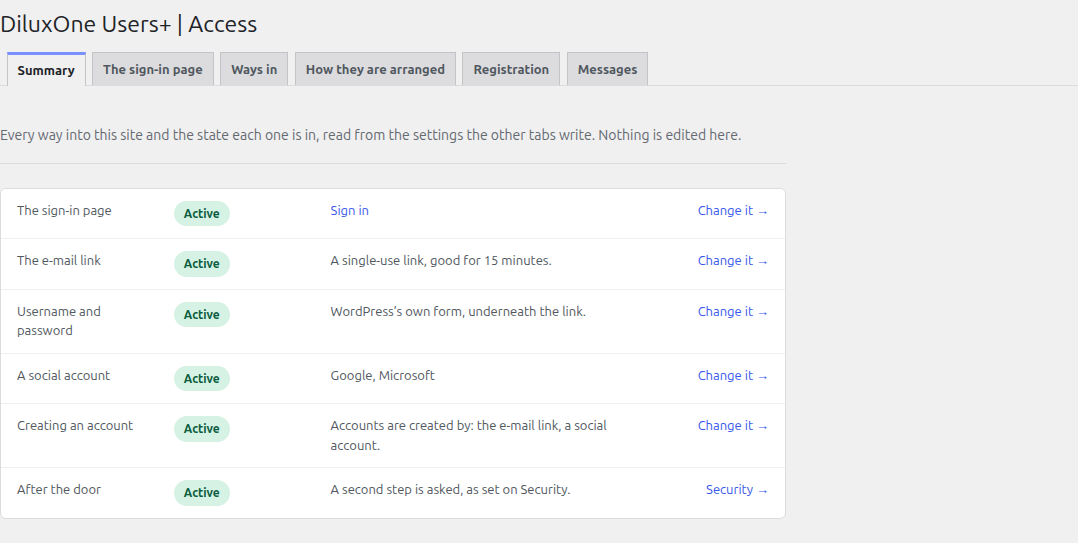
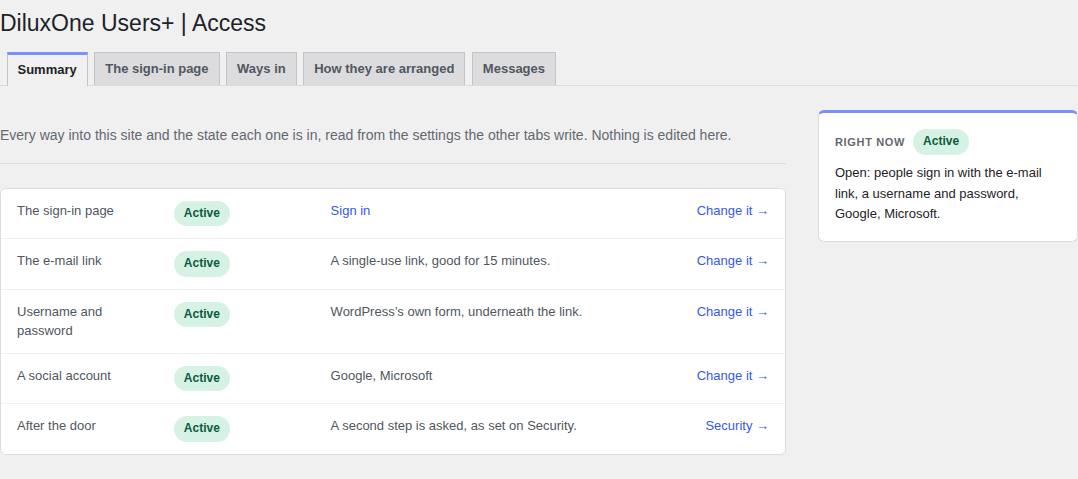
fix: the bug reproduced from #207 (#211)
## 📝 What changes

Access › Summary closes its rail with an empty callback
(`diluxone_users_screen_login_summary()` in `includes/admin-login.php`).
The Save box draws nothing on that tab, so the page has no
`.diluxone-users-studio__aside` at all. Registration › Summary, by
contrast, fills its rail with `diluxone_users_ui_aside_state()` from
`diluxone_users_register_state()`. The fix mirrors Registration:

1. Add `diluxone_users_login_state()` to `includes/admin-login.php`,
beside `diluxone_users_doors()`. Like `diluxone_users_register_state()`,
it returns one summary row through `diluxone_users_summary_row()`, keyed
on `diluxone_users_login_method` and `diluxone_users_sso_login`. It
reads the same helpers the table reads, so nothing is stored twice:
`diluxone_users_login_has_link()`, `diluxone_users_login_has_password()`
and `diluxone_users_sso_working_names()`.
- `detail` reads "Open: people sign in with %s.", listing the ways that
are open (the e-mail link, a username and password, and the names of
working social providers). The state is `active`.
- If social sign-in is on but no provider works, the state is `pending`
with that reason.
- If no way is open, the detail reads "Nobody can sign in here." and the
state is `off`.
- On a fresh install, where nobody has made a choice,
`diluxone_users_summary_row()` gives the Not configured state with a
line about what WordPress does meanwhile ("Everybody signs in on
[…]

diff --git a/tests/e2e/repro/issue-207.spec.ts b/tests/e2e/repro/issue-207.spec.ts
@@ -1,41 +1,26 @@
 import { test, expect } from '../support/fixtures';
-import { accessTab, control, notNow } from '../support/admin-access';
+import { accessTab, rail } from '../support/admin-access';
 import { ADMIN_STATE } from '../../../playwright.config';
 
 /**
- * Issue #207, item 7: on Access › The sign-in page, with the e-mail link as the
- * only way in and a page chosen, two sections say "Not in use now". The
- * lost-password one has its choices disabled (#192), but "What happens to
- * wp-login.php" leaves "Send everybody…" and "…only while the link…" enabled.
- * The reporter expects every section under "Not in use now" to have its
- * controls disabled.
+ * Issue #207, item 5: Access › Summary has an empty "Right now" rail since
+ * Registration moved out, while Registration's has its own. The reporter
+ * expects Access to keep a "Right now" of its own, with the state of signing
+ * in, on any site.
  */
 
 test.use({ storageState: ADMIN_STATE });
 
-test.describe('Issue 207: a section that does not apply now', () => {
-	test.beforeEach(async ({ options }) => {
-		await options.keep(['diluxone_users_login_method', 'diluxone_users_login_page', 'diluxone_users_lost_password', 'diluxone_users_wp_screens']);
-	});
+test.describe('Issue 207: the summary of Access', () => {
+	test('it has a "Right now" rail of its own that says something', async ({ page }) => {
+		await page.goto(accessTab('summary'));
 
-	test('the wp-login.php choices are disabled while the e-mail link is the only way in', async ({ page, pages, options }) => {
-		await options.set({
-			diluxone_users_login_method: 'link',
-			diluxone_users_login_page: pages.login.id,
-			diluxone_users_lost_password: 'site',
-		});
+		// The table of ways in is drawn, so this is the right screen.
+		await expect(page.locator('table.diluxone-users-summary')).toBeVisible();
 
-		await page.goto(accessTab('page'));
-
-		// Both sections say they do not apply.
-		await expect(notNow(page), 'the wp-login.php and lost-password sections both say so').toHaveCount(2);
-
-		// The lost-password section waits, as #192 asked.
-		await expect(control(page, 'diluxone_users_lost_password', 'site'), 'the lost-password choice waits').toBeDisabled();
-
-		// So does the wp-login.php one.
-		for (const value of ['mine', 'wp', 'auto']) {
-			await expect(control(page, 'diluxone_users_wp_screens', value), `the wp-login.php choice "${value}" waits`).toBeDisabled();
-		}
+		// The rail exists and is not empty.
+		await expect(rail(page), 'the summary has a rail').toHaveCount(1);
+		await expect(rail(page).locator('.du-state'), 'the rail says the state of signing in').toHaveCount(1);
+		await expect(rail(page).locator('.du-state__line'), 'and says it in words').not.toHaveText('');
 	});
 });

diff --git a/tests/e2e/specs/admin-access-summary.spec.ts b/tests/e2e/specs/admin-access-summary.spec.ts
@@ -98,7 +98,7 @@ test.describe('Access › Summary', () => {
 		});
 	}
 
-	test('is the first tab, saves nothing, and has no rail: the table is the whole of it', async ({ page }) => {
+	test('is the first tab, saves nothing, and its rail says only how signing in stands', async ({ page }) => {
 		await page.goto(adminUrl('diluxone-users-login'));
 
 		await expect(page.locator('.nav-tab-wrapper .nav-tab').first()).toHaveClass(/nav-tab-active/);
@@ -106,7 +106,9 @@ test.describe('Access › Summary', () => {
 		await expect(page.locator('table.diluxone-users-summary')).toBeVisible();
 		await expect(saveButton(page), 'a Save button on a tab that edits nothing').toHaveCount(0);
 		await expect(page.locator('.diluxone-users-studio form[method="post"]')).toHaveCount(0);
-		await expect(rail(page), 'the way back in when locked out is Maintenance’s tab').toHaveCount(0);
+		await expect(rail(page).locator('.du-state'), 'one state: whether anybody can sign in').toHaveCount(1);
+		await expect(rail(page).locator('.du-state__line')).not.toHaveText('');
+		await expect(rail(page)).not.toContainText('accounts are created');
 	});
 
 	test('with registration open by the e-mail link, it speaks only of signing in, and Registration’s summary only of registering', async ({ page, options }) => {

diff --git a/tests/Integration/AccessSummaryRailTest.php b/tests/Integration/AccessSummaryRailTest.php
@@ -1,0 +1,97 @@
+<?php
+/**
+ * Access › Summary's rail: whether anybody can sign in right now, and through
+ * which ways, read from the same settings the table reads.
+ *
+ * Nobody signing in at all ("Nobody can sign in here.") is not reachable from
+ * the settings today: the method always opens the link, the password or both.
+ * The cases below are the ones a site can be in.
+ */
+
+namespace Tests\Integration;
+
+use Tests\Integration\Support\CoverSettingsSupport;
+
+class AccessSummaryRailTest extends IntegrationTestCase {
+
+	use CoverSettingsSupport;
+
+	protected function tearDown(): void {
+		$this->cover_settings_reset();
+
+		parent::tearDown();
+	}
+
+	/** A provider set up and tested, so it works. */
+	private function a_working_provider(): void {
+		diluxone_users_update_option(
+			'diluxone_users_sso',
+			array(
+				'google' => array(
+					'active' => 1,
+					'id'     => 'client-id',
+					'secret' => 'client-secret',
+					'tested' => 1,
+				),
+			),
+			false
+		);
+	}
+
+	public function test_open_ways_are_listed_and_active(): void {
+		$this->a_working_provider();
+		diluxone_users_update_option( 'diluxone_users_login_method', 'both' );
+		diluxone_users_update_option( 'diluxone_users_sso_login', 1 );
+
+		$state = diluxone_users_login_state();
+		$names = implode( ', ', diluxone_users_sso_working_names() );
+
+		$this->assertSame( 'active', $state['state'] );
+		$this->assertSame( '', $state['why'] );
+		$this->assertSame( esc_html( 'Open: people sign in with the e-mail link, a username and password, ' . $names . '.' ), $state['detail'] );
+	}
+
+	public function test_the_link_alone_is_named_alone(): void {
+		diluxone_users_update_option( 'diluxone_users_login_method', 'link' );
+		diluxone_users_update_option( 'diluxone_users_sso_login', 0 );
+
+		$state = diluxone_users_login_state();
+
+		$this->assertSame( 'active', $state['state'] );
+		$this->assertSame( 'Open: people sign in with the e-mail link.', $state['detail'] );
+	}
+
+	public function test_social_on_with_no_provider_working_is_pending(): void {
+		diluxone_users_update_option( 'diluxone_users_sso', array(), false );
+		diluxone_users_update_option( 'diluxone_users_login_method', 'password' );
+		diluxone_users_update_option( 'diluxone_users_sso_login', 1 );
+
+		$state = diluxone_users_login_state();
+
+		$this->assertSame( 'pending', $state['state'] );
+		$this->assertSame( 'no provider is working yet', $state['why'] );
+		$this->assertSame( 'Open: people sign in with a username and password.', $state['detail'] );
+	}
+
+	public function test_nobody_decided_reads_not_configured_with_what_wordpress_does(): void {
+		diluxone_users_delete_option( 'diluxone_users_login_method' );
+		diluxone_users_delete_option( 'diluxone_users_sso_login' );
+
+		$state = diluxone_users_login_state();
+
+		$this->assertSame( 'unset', $state['state'] );
+		$this->assertSame( '', $state['why'] );
+		$this->assertSame( esc_html( 'Everybody signs in on wp-login.php with a username and password, as WordPress has it.' ), $state['detail'] );
+	}
+
+	public function test_the_tab_draws_the_rail_with_one_line(): void {
+		$this->the_admin();
+		diluxone_users_update_option( 'diluxone_users_login_method', 'link' );
+		diluxone_users_update_option( 'diluxone_users_sso_login', 0 );
+
+		$html = $this->draw( 'diluxone_users_screen_login_summary' );
+
+		$this->assertSame( 1, substr_count( $html, 'class="du-state"' ), 'one state in the rail' );
+		$this->assertStringContainsString( '<p class="du-state__line">Open: people sign in with the e-mail link.</p>', $html );
+	}
+}

diff --git a/includes/admin-login.php b/includes/admin-login.php
@@ -427,6 +427,54 @@ function diluxone_users_doors(): array {
 	return $rows;
 }
 
+/**
+ * Whether anybody can sign in right now, and through which ways.
+ *
+ * The rail of Access › Summary, in the shape of a summary row: the same
+ * reading the table does, folded into one sentence.
+ *
+ * @return array<string, string>
+ */
+function diluxone_users_login_state(): array {
+	$social = diluxone_users_sso_working_names();
+	$sso    = (bool) diluxone_users_option( 'diluxone_users_sso_login' );
+	$open   = array();
+
+	if ( diluxone_users_login_has_link() ) {
+		$open[] = __( 'the e-mail link', 'diluxone-users' );
+	}
+
+	if ( diluxone_users_login_has_password() ) {
+		$open[] = __( 'a username and password', 'diluxone-users' );
+	}
+
+	if ( $sso ) {
+		$open = array_merge( $open, $social );
+	}
+
+	$waiting = $sso && array() === $social;
+
+	return diluxone_users_summary_row(
+		array( 'diluxone_users_login_method', 'diluxone_users_sso_login' ),
+		array(
+			'label'  => __( 'Signing in', 'diluxone-users' ),
+			'state'  => $waiting ? 'pending' : ( array() !== $open ? 'active' : 'off' ),
+			'why'    => $waiting ? __( 'no provider is working yet', 'diluxone-users' ) : '',
+			'detail' => array() !== $open
+				? esc_html(
+					sprintf(
+						/* translators: %s: the ways people sign in, comma separated */
+						__( 'Open: people sign in with %s.', 'diluxone-users' ),
+						implode( ', ', $open )
+					)
+				)
+				: esc_html__( 'Nobody can sign in here.', 'diluxone-users' ),
+			'url'    => diluxone_users_admin_url( 'diluxone-users-login', array( 'tab' => 'ways' ) ),
+		),
+		esc_html__( 'Everybody signs in on wp-login.php with a username and password, as WordPress has it.', 'diluxone-users' )
+	);
+}
+
 /** The state of the whole door. Nothing is edited here. */
 function diluxone_users_screen_login_summary(): void {
 	diluxone_users_ui_aside_open();
@@ -435,11 +483,15 @@ function diluxone_users_screen_login_summary(): void {
 
 	diluxone_users_summary_table( diluxone_users_doors() );
 
-	/*
-	 * No rail: the table is the whole of what this tab says about the site,
-	 * and the way back in when locked out is the lockout tab of Maintenance.
-	 */
-	diluxone_users_ui_aside_close( static function (): void {} );
+	$now = diluxone_users_login_state();
+
+	// The rail says one thing: whether anybody can sign in right now, and
+	// through which ways. Registering is Registration's to report.
+	diluxone_users_ui_aside_close(
+		static function () use ( $now ): void {
+			diluxone_users_ui_aside_state( (string) $now['detail'], (string) $now['state'], (string) ( $now['why'] ?? '' ) );
+		}
+	);
 }
 
 /**

diff --git a/tests/e2e/COVERAGE.md b/tests/e2e/COVERAGE.md
@@ -270,12 +270,12 @@ everybody, with the code by e-mail, and skips it for nobody.
 | Overview: cards (accounts, sessions, fields, social), the 15-minute cache, card links | `admin-overview` › the cards |
 | Overview: first steps (button only on the first undone, gone when done) | `admin-overview` › first steps |
 | Overview: usage "N of M (x%)" and bar width; doors panel (method, mail failing, all doors, and registration as a row of its own linking to Registration); asked panel (active fields, none); rail links | `admin-overview` › what your people use; how your people get in (signing in and registration are two rows…); what is asked of them. Integration: `RegistrationScreenTest` |
-| Access › Summary: five rows by pill and link for three door shapes, none of them registration; no Save; emergency URL and WP-CLI line | `admin-access-summary` |
+| Access › Summary: five rows by pill and link for three door shapes, none of them registration; no Save; a “Right now” rail saying only whether anybody can sign in and through which ways; emergency URL and WP-CLI line | `admin-access-summary`, `repro/issue-207`. Integration: `AccessSummaryRailTest` |
 | Registration › Summary: with registration open by the e-mail link, one row per door and the role given, no row of signing in, a “Right now” rail saying only whether registration is open and through which doors; no Save | `admin-access-summary` › with registration open by the e-mail link…. Integration: `RegistrationScreenTest` |
 | Access › The sign-in page: page selector (and None), `auto`, hand-sent `wp` without a password stored as `auto`, lost password `wp`/`site`/`link` through the tab, not-now notes and the wp-login look note; with “A page of its own”, a page chosen showing its address as a link and no address field, "No page" showing the address field, the drop-down switching the two with no reload (another page not yet saved: "Once saved"), a refused address writing nothing; with “In the page” and “A centred card”, no address field and the save as before | `admin-access-page` › Access › The sign-in page, … with “A page of its own”, … with “In the page”, … with “A centred card” · `network/admin-access` › The hub’s Access › The sign-in page, with “A page of its own”. Integration: `CoverSettingsAccessTest` |
 | Access › The sign-in page with the e-mail link as the only way in and a page chosen: the three lost-password choices (`wp`, `site`, `link`) drawn disabled, waiting for a password | `repro/issue-165` |
 | A section of Access that does not apply now wears “Not in use now”, never “Pending”; Arrangement › “Which tab opens” drawn disabled while the ways in are stacked | `repro/issue-192` |
-| Access › The sign-in page with the e-mail link as the only way in and a page chosen: the three “What happens to wp-login.php” choices (`mine`, `wp`, `auto`) drawn disabled, waiting for a password, the answer in force still checked | `repro/issue-207`, `admin-access-page` › the notes beside the answers… |
+| Access › The sign-in page with the e-mail link as the only way in and a page chosen: the three “What happens to wp-login.php” choices (`mine`, `wp`, `auto`) drawn disabled, waiting for a password, the answer in force still checked | `admin-access-page` › the notes beside the answers… |
 | Create the page: the sign-in page; the account page's sections answer at once; an unknown page role is refused | `admin-access-page` › Create the page |
 | Access › Ways in: neither box refused (browser and server); throttle; public-name sign-in on/off; handles-off note; password off drops the second screen; a setting pinned from code; the Users+ Pro card after the real ways in (`login/ways/more`) | `admin-access-ways` |
 | Access › Arrangement: `tabs`, `auto` threshold, first tab (disabled while stacked, enabled live by “tabs”, kept by a save made stacked), junk posted by hand, real drag saves on drop, live preview | `admin-access-arrangement` |

diff --git a/changelog.d/210.md b/changelog.d/210.md
@@ -1,0 +1,1 @@
+* Access › Summary has a "Right now" rail again, as Registration › Summary does: one line saying whether anybody can sign in and through which ways (the e-mail link, a username and password, the social providers that work), or, on a site where nobody has chosen yet, what WordPress does meanwhile.
